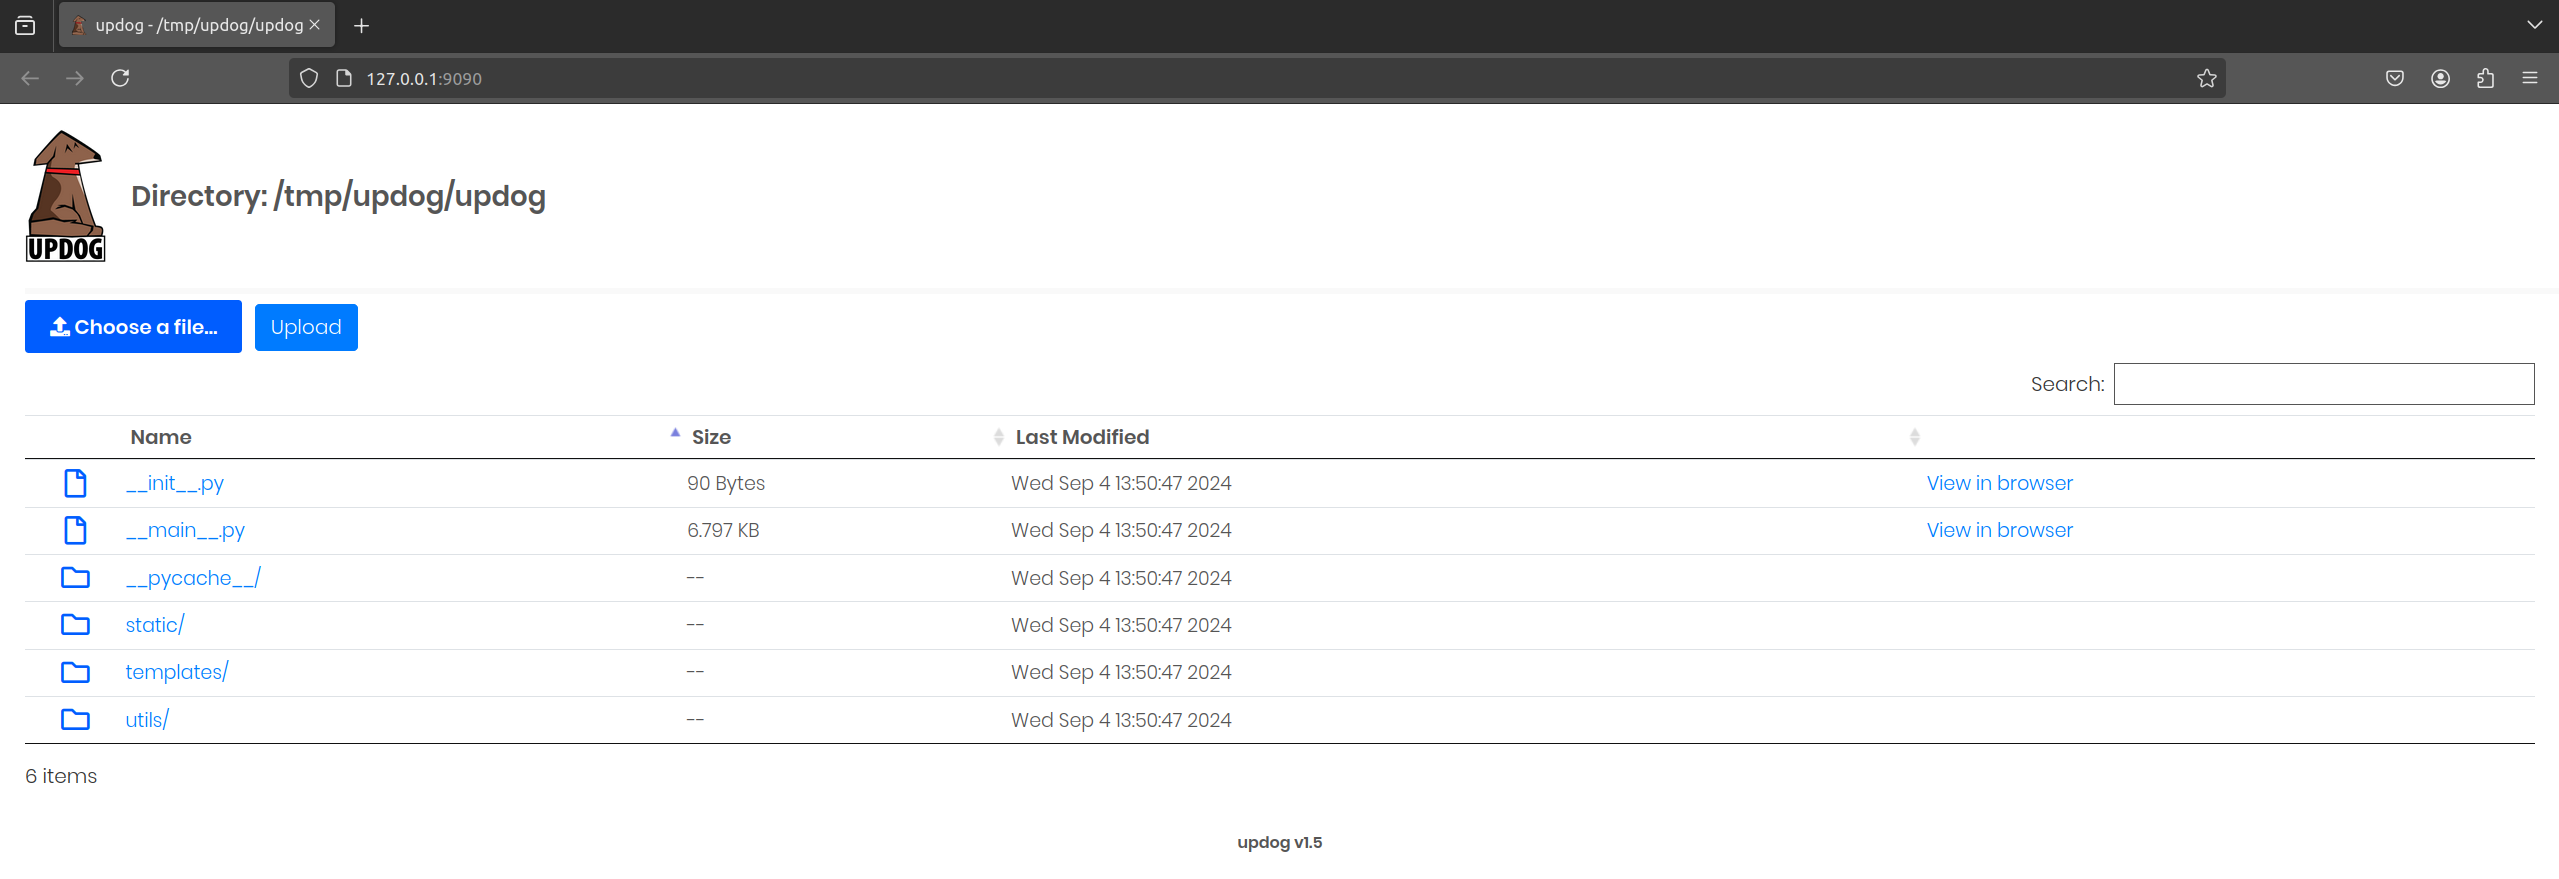
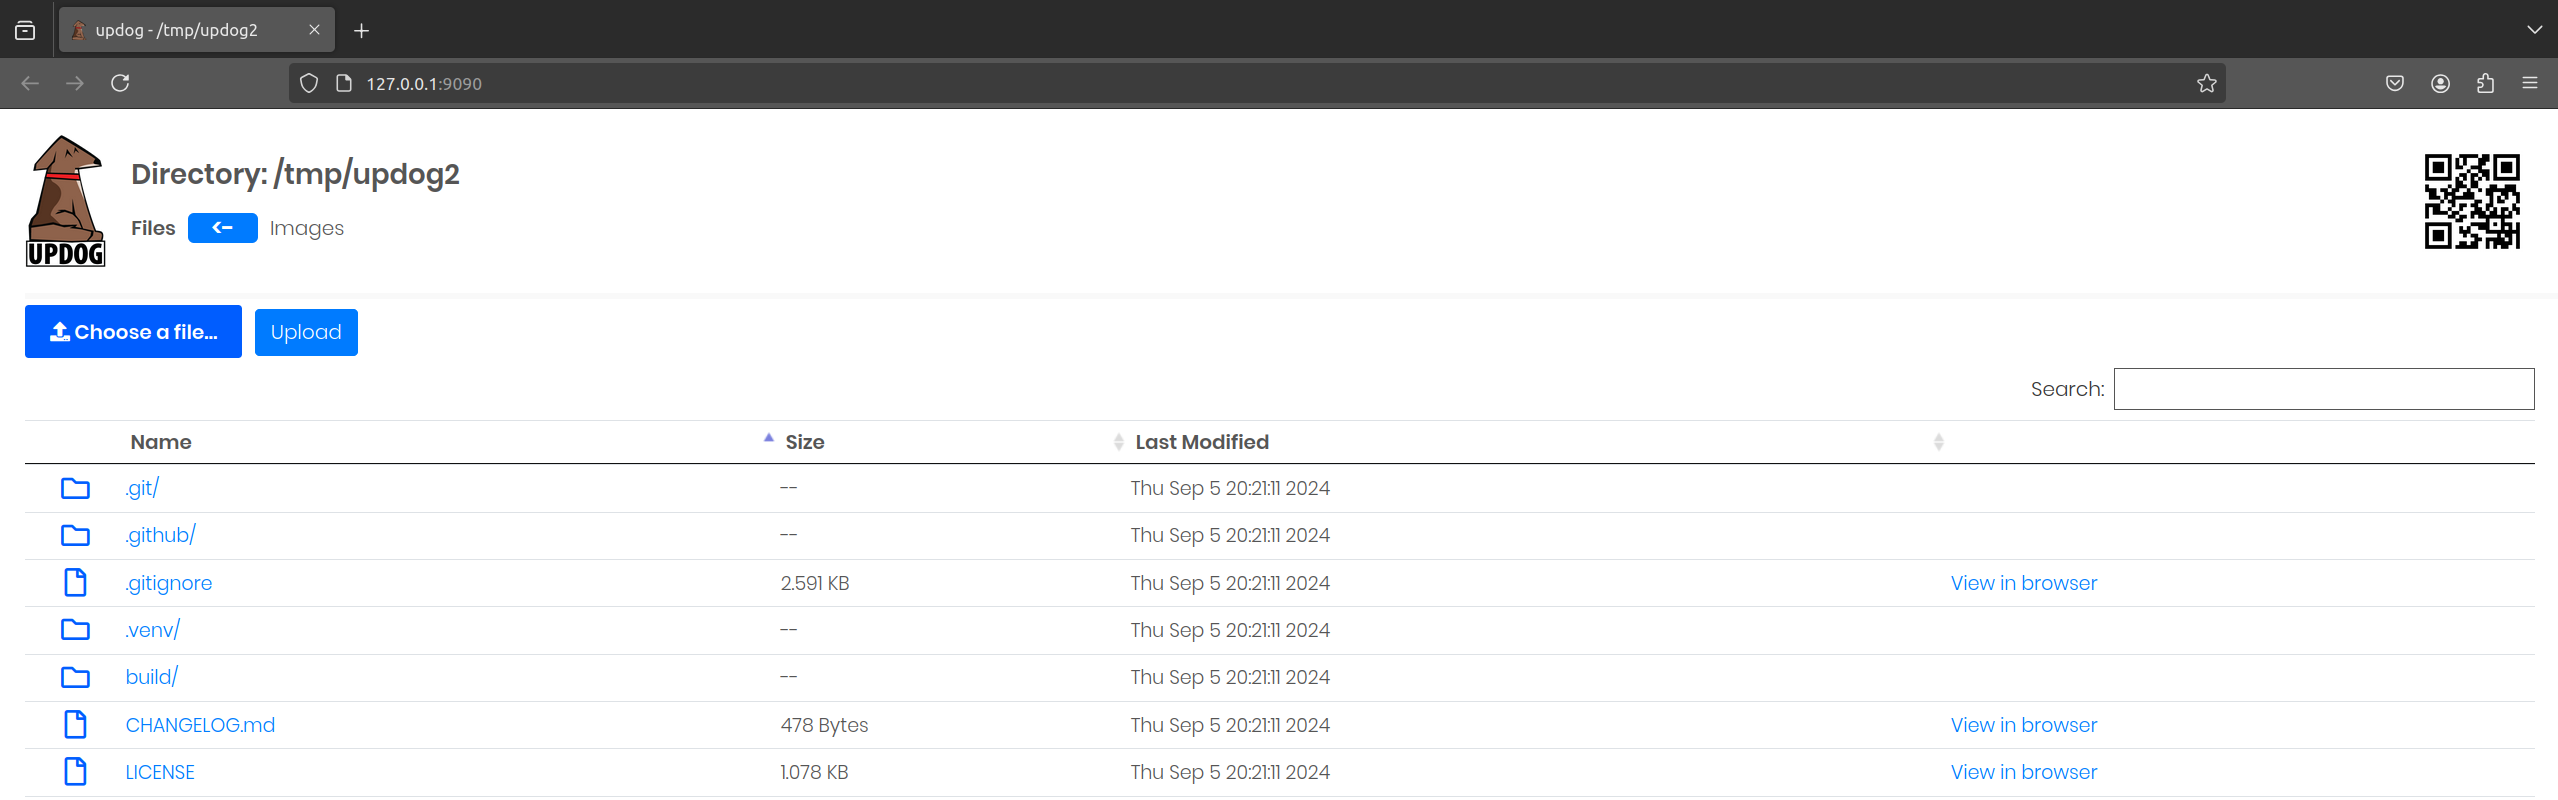
Update 2.1.3

diff --git a/updog2/static/css/shared.css b/updog2/static/css/shared.css
@@ -1,16 +1,12 @@
+b {
+    font-weight: 600;
+}
+
 .qr {
     margin-left: auto;
     margin-right: 20px;
 
     width: 100px;
-}
-
-@media screen and (max-width: 768px) {
-    .qr {
-        margin-left: auto;
-        margin-right: auto;
-    }
-
 }
 
 .toggleHolder {
@@ -45,6 +41,10 @@
     background-color: var(--blue);
 }
 
+.buttonLabel:hover {
+    animation: rotateButton 1s forwards infinite linear;
+    animation-delay: 1s;
+}
 
 @keyframes rotateButton {
     0% {
@@ -68,7 +68,21 @@
     }
 }
 
-.buttonLabel:hover {
-    animation: rotateButton 1s forwards infinite linear;
-    animation-delay: 1s;
+@media screen and (max-width: 768px) {
+    .qr {
+        margin-left: auto;
+        margin-right: auto;
+    }
+
+    .toggleHolder {
+        justify-content: center;
+    }
+
+    .toggleHolder p {
+        width: 60px;
+    }
+
+    .toggleHolder .files {
+        text-align: end;
+    }
 }

diff --git a/updog2/templates/home.html b/updog2/templates/home.html
@@ -29,10 +29,10 @@
                 <h2>Directory: {{ directory }}</h2>
 
                 <div class="toggleHolder">
-                    <p>Files</p>
+                    <p class="files"><b>Files</b></p>
                     <input type="checkbox" id="toggle" />
-                    <label for="toggle" class="buttonLabel" onclick="switchMode('images')"><span><-< /span></label>
-                    <p onclick="switchMode('images')">Images</p>
+                    <label for="toggle" class="buttonLabel" onclick="switchMode('images')"> <- </label>
+                            <p onclick="switchMode('images')">Images</p>
                 </div>
             </div>
 

diff --git a/updog2/templates/images.html b/updog2/templates/images.html
@@ -31,10 +31,10 @@
                 <h2>Directory: {{ directory }}</h2>
 
                 <div class="toggleHolder">
-                    <p onclick="switchMode('files')">Files</p>
+                    <p onclick="switchMode('files')" class="files">Files</p>
                     <input type="checkbox" id="toggle" />
-                    <label for="toggle" class="buttonLabel" onclick="switchMode('files')"><span>-></span></label>
-                    <p>Images</p>
+                    <label for="toggle" class="buttonLabel" onclick="switchMode('files')"> -> </label>
+                    <p><b>Images</b></p>
                 </div>
             </div>
 

diff --git a/updog2/__main__.py b/updog2/__main__.py
@@ -41,7 +41,7 @@ def parse_arguments():
     parser.add_argument('-qr', '--qr', action='store_true',
                         help='Generate QR code for the server URL')
     parser.add_argument('-q', '--quiet', action='store_true',
-                        help='Do not display the QR code')
+                        help='Do not display the QR code in the webpage')
     parser.add_argument('-i', '--images', action='store_true',
                         help='Display just image files')
     parser.add_argument('--password', type=str, default='',
@@ -191,50 +191,56 @@ def main():
     #############################
     # Image Serve Functionality #
     #############################
-    if args.images:
-        @app.route('/images/<filename>')
-        def serve_image(filename):
-            image_path = os.path.join(args.directory, filename)
+    @app.route('/images/<filename>')
+    def serve_image(filename):
+        if not args.images:
+            return redirect('/')
 
-            if not os.path.exists(image_path):
-                abort(404)
+        image_path = os.path.join(args.directory, filename)
 
-            # Reduce image size if it is too large
-            if filename.endswith(".png") or filename.endswith(".jpg"):
-                with Image.open(image_path) as img:
-                    aspect_ratio = img.height / img.width
+        if not os.path.exists(image_path):
+            abort(404)
 
-                    if img.width > 750:
-                        new_height = int(750 * aspect_ratio)
+        # Reduce image size if it is too large
+        if filename.endswith(".png") or filename.endswith(".jpg"):
+            with Image.open(image_path) as img:
+                aspect_ratio = img.height / img.width
 
-                        img = img.resize((750, new_height))
+                if img.width > 750:
+                    new_height = int(750 * aspect_ratio)
 
-                    img_format = img.format if img.format else "JPEG"
-                    img_byte_arr = io.BytesIO()
-                    img.save(img_byte_arr, format=img_format)
-                    img_byte_arr.seek(0)
+                    img = img.resize((750, new_height))
 
-                return send_file(img_byte_arr, mimetype=f'image/{img_format.lower()}')
-            else:
-                return send_file(image_path)
+                img_format = img.format if img.format else "JPEG"
+                img_byte_arr = io.BytesIO()
+                img.save(img_byte_arr, format=img_format)
+                img_byte_arr.seek(0)
 
-        # Download image urls
-        @app.route('/images/download/<filename>')
-        def download_image(filename):
-            return send_from_directory(args.directory, filename, as_attachment=True)
+            return send_file(img_byte_arr, mimetype=f'image/{img_format.lower()}')
+        else:
+            return send_file(image_path)
 
-        # Download all images in a zip file
-        @app.route('/images/download/all')
-        def download_all_images():
-            zipfile_name = os.path.join(args.directory, "all_images.zip")
+    # Download image urls
+    @app.route('/images/download/<filename>')
+    def download_image(filename):
+        if not args.images:
+            return redirect('/')
+        return send_from_directory(args.directory, filename, as_attachment=True)
 
-            # Create a zip file with all images
-            with ZipFile(zipfile_name, 'w') as zipf:
-                for file in os.listdir(args.directory):
-                    if file.endswith(".png") or file.endswith(".jpg"):
-                        zipf.write(os.path.join(args.directory, file), file)
+    # Download all images in a zip file
+    @app.route('/images/download/all')
+    def download_all_images():
+        if not args.images:
+            return redirect('/')
+        zipfile_name = os.path.join(args.directory, "all_images.zip")
 
-            return send_from_directory(args.directory, "all_images.zip", as_attachment=True)
+        # Create a zip file with all images
+        with ZipFile(zipfile_name, 'w') as zipf:
+            for file in os.listdir(args.directory):
+                if file.endswith(".png") or file.endswith(".jpg"):
+                    zipf.write(os.path.join(args.directory, file), file)
+
+        return send_from_directory(args.directory, "all_images.zip", as_attachment=True)
 
     #############################
     # Switch mode functionality #

diff --git a/setup.py b/setup.py
@@ -17,8 +17,8 @@ setup(
     author_email='oriolboladeras@gmail.com',
     description='Updog is a replacement for Python\'s SimpleHTTPServer. '
                 'It allows uploading and downloading via HTTP/S, can set '
-                'ad hoc SSL certificates and use http basic auth.'
-                'The last version allows to generate a QR code to share the link.'
+                'ad hoc SSL certificates and use http basic auth. '
+                'The last version allows to generate a QR code to share the link '
                 'and also allows to display just image files in a more friendly way.',
     long_description=long_description,
     long_description_content_type='text/markdown',

diff --git a/updog2/__init__.py b/updog2/__init__.py
@@ -1,4 +1,4 @@
-version_info = (2, 1, 2)
+version_info = (2, 1, 3)
 version = '.'.join(str(c) for c in version_info)
 
 base_directory = ''

diff --git a/README.md b/README.md
@@ -1,6 +1,6 @@
-![Version 2.1.0](http://img.shields.io/badge/version-v2.1.0-green.svg)
-![Python 3.8](http://img.shields.io/badge/python-3.10-blue.svg)
-[![MIT License](http://img.shields.io/badge/license-MIT%20License-blue.svg)](https://github.com/OBoladeras/updog/blob/master/LICENSE)
+![Version 2.1.3](http://img.shields.io/badge/version-v2.1.3-green.svg)
+![Python 3.10](http://img.shields.io/badge/python-3.10-blue.svg)
+[![MIT License](http://img.shields.io/badge/license-MIT%20License-blue.svg)](https://github.com/OBoladeras/updog2/blob/master/LICENSE)
 
 <p>
   <img src="https://raw.githubusercontent.com/OBoladeras/updog2/main/updog2/static/images/updog.png" width=85px alt="updog"/>
@@ -8,7 +8,9 @@
 
 Updog is a replacement for Python's `SimpleHTTPServer`. 
 It allows uploading and downloading via HTTP/S, 
-can set ad hoc SSL certificates and use HTTP basic auth.
+can set ad hoc SSL certificates and use HTTP basic auth.  
+The last version allows to generate a QR code to share the link 
+and also allows to display just image files in a more friendly way.
 
 <p align="center">
   <img src="https://raw.githubusercontent.com/OBoladeras/updog2/main/updog2/static/images/example.png" alt="Updog screenshot"/>
@@ -27,13 +29,14 @@ Install using pip:
 
 ## Usage
 
-`updog2 [-d DIRECTORY] [-p PORT] [--password PASSWORD] [--ssl]`
+`updog [-d DIRECTORY] [-p PORT] [-qr] [-q] [-i] [--password PASSWORD] [--ssl] [--version] [DIRECTORY]`
 
 | Argument                            | Description                                      |
 |-------------------------------------|--------------------------------------------------| 
 | -d DIRECTORY, --directory DIRECTORY | Root directory [Default=.]                       | 
 | -p PORT, --port PORT                | Port to serve [Default=9090]                     |
 | -qr, --qr                           | Show QR code to access the page                  |
+| -q, --quiet                         | Do not display the QR code in the webpage        |
 | -i, --images                        | Show the images in the directory                 |
 | --password PASSWORD                 | Use a password to access the page. (No username) |
 | --ssl                               | Enable transport encryption via SSL              |
@@ -76,11 +79,11 @@ enter the password in the password field.
 
 **More examples:**
 
-`updog2 /tmp/mydog -p 1234 --password examplePassword123! --ssl -qr -i`
+`updog2 /tmp/mydog -iqp 1234 --password examplePassword123! --ssl -qr`
 
 
 ## Notes
 
 This project is a fork of [updog](https://github.com/sc0tfree/updog) by [sc0tfree](https://github.com/sc0tfree).
-The original project is no longer maintained, so I decided to fork it and keep it up to date.
-The changes I made can be found in the [CHANGELOG](CHANGELOG.md).
+The original project is no longer maintained, so I decided to fork it and keep it up to date.  
+The principal changes I made can be found in the [CHANGELOG](CHANGELOG.md).

diff --git a/CHANGELOG.md b/CHANGELOG.md
@@ -3,19 +3,31 @@
 
 ## [Unreleased]
 ### Added
+- More info on images with image mode.
+- Show download progress when downloading all images.
+
+### Changed
+- Consistent colors with hover effects.
+- Better support for image formats.
+
+
+## [2.1.3] - 2024-09-05
+### Added
 - Switch to image and back to text mode from the web interface.
 - Constantly show qr code on the web interface.
+- New flag to not show the qr code on the web interface, `-q` or `--quiet`.
+
+### Fixed
+- Fixed the issue with the images not being displayed correctly when switching from the web interface.
 
 
 ## [2.0] - 2024-09-04
 ### Added
-- New functionality to serve just images.
-- New styles for image functionality.
-
-- New release to PIP with the new features.
-
-- New feature to support QR code generation for easy access.
-- Directory can be specified with the `-d` flag.
+- Feature to support QR code generation for easy access.
+- Functionality to serve just images.
+- Styles for image functionality.
+- Directory can be passed as an argument without the `-d` flag.
+- Release to PIP with the new version.
 
 ### Fixed
 - Readme images are now displayed correctly.
